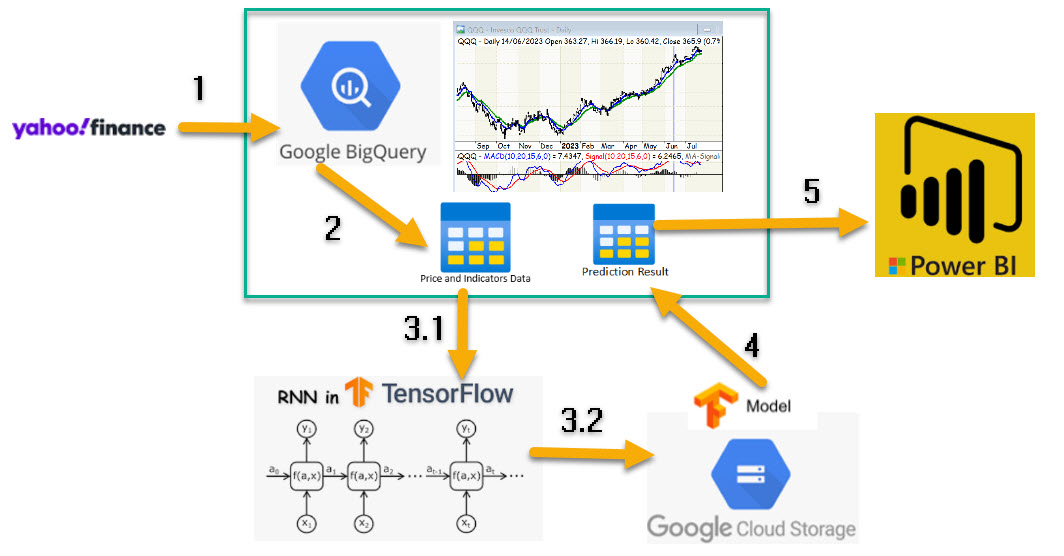
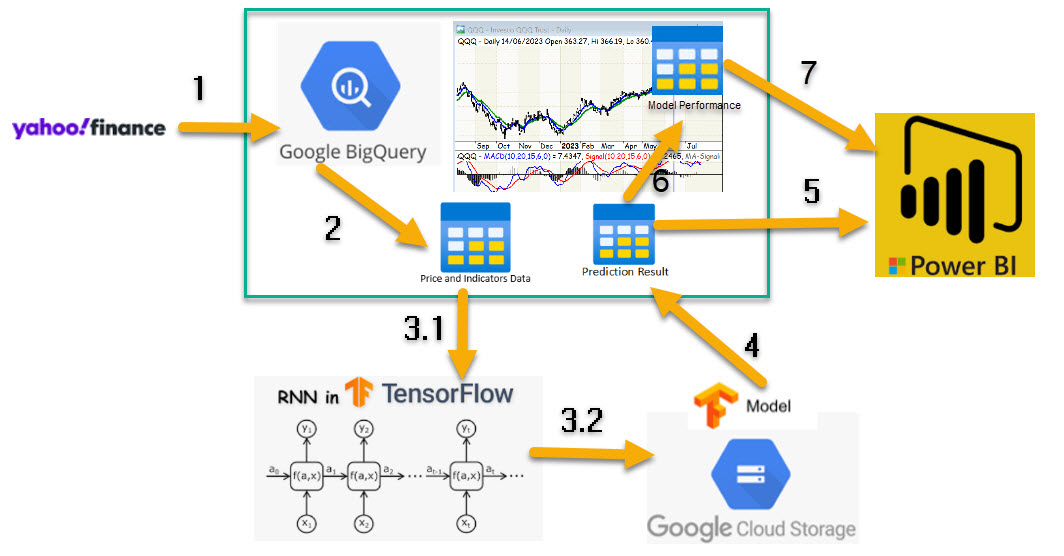
ok

Changed region(s): [[0.5583, 0.0306, 0.8374, 0.3669]]

diff --git a/forecast-asset -price-movement-LSTM-TimeSeries/README.md b/forecast-asset -price-movement-LSTM-TimeSeries/README.md
@@ -2,8 +2,8 @@
 - This project involves in building time series model using Long short-term memory (LSTM) that is  kind of RNN(Recurrent Neural Network)  on Tensorflow Framework in order to make prediction of future stock price movement pattern . The model use EMA price data points as feature input over the past 30 days to forecast EMA price as prediction output over the next 5 days.
 - We provide you with the End to End Solution from ingesting data into BigQuery to visualizing prediction result on Dashboard tool.
 
-## Steps performed include the following task and process flow figure shown in below.
-![process](https://github.com/technqvi/TimeSeriesML-FinMarket/assets/38780060/93310eae-1eff-4a19-9fd1-55e66b3e3c13)
+## Steps performed include the following task and process flow figure shown  below.
+![process](https://github.com/technqvi/TimeSeriesML-FinMarket/assets/38780060/ff6cb6e1-ea11-4677-84e0-0949f1d33cf0)
 
 1. Load stock price data from Finance.yahoo.com to Bigquery.
 2. Create technical analysis indicator such as EMA,MACD,SINGLA using [TA library](https://technical-analysis-library-in-python.readthedocs.io/en/latest/) as features and import data into the price data table.
@@ -12,13 +12,15 @@
    - Save tuned model and scaler(1.feature scaler 2.prediction scaler) into google cloud storage.
 4. Load tuned model to  make prediction and store prediction result into the prediciton result table on BigQuery.
 5. Visualize prediction result using line chart compared to the actual result through Jupyter Lab and PowerBI.
+6. Collect model performance data such as Predicted Value and  Actual Value  and bring them  to calculate Mean Absolute Error(MAE) to monitor model performance over time.
+7. Visualize error between predicted Value and  actual Value and show MAE value  over time.
 
 
 <img width="697" alt="image" src="https://github.com/technqvi/TimeSeriesML-FinMarket/assets/38780060/9694e19a-9e98-4d3a-a6fb-26e773cb8f5b">
 
 ## [Youtube : Building LSTM Time-Series Models  to Predict Future Stock Price Movement](https://www.youtube.com/playlist?list=PLIxgtZc_tZWPCX4dAFJFhDPPGxEungxc8)
 
-## [Forecast Asset Future Price Movement By LSTM-TimeSeries](https://github.com/technqvi/TimeSeriesML-FinMarket/tree/main/forecast-asset%20-price-movement-LSTM-TimeSeries)
+## [Forecast Asset Future Price Movement By LSTM-TimeSeries Source Code](https://github.com/technqvi/TimeSeriesML-FinMarket/tree/main/forecast-asset%20-price-movement-LSTM-TimeSeries)
 ### [load_daily_price_from_yahoo.ipynb](https://github.com/technqvi/TimeSeriesML-FinMarket/blob/main/forecast-asset%20-price-movement-LSTM-TimeSeries/load_daily_price_from_yahoo.ipynb)
 ##### Youtube : [1 Load Stock Price From Yahoo To BigQuery For Building LSTM Model](https://www.youtube.com/watch?v=jaPpyopNFPA&feature=youtu.be)
 * There are 2 options to load price data to GoogleBiquery.
@@ -76,7 +78,7 @@
 ### [collect_performance_forecast_result.ipynb](https://github.com/technqvi/TimeSeriesML-FinMarket/blob/main/forecast-asset%20-price-movement-LSTM-TimeSeries/collect_performance_forecast_result.ipynb)
 #### Youtub :[5 Collect&Monitor Time Series Model Performance Data](https://www.youtube.com/watch?v=Fd1GfmX_Z3k&list=PLIxgtZc_tZWPCX4dAFJFhDPPGxEungxc8&index=7)
 * Create collection date on Saturday as well as start date and end date to gather model performance data every week.
-* Get model configuration metadata ( This script is capable of collecting performance on multiple models only once).
+* Get model configuration metadata ( This script is capable of collecting performance for multiple models once).
 * Retrieve predicted value  and actual values  and return as dataframe from tables in BigQuery and merge both into one dataframe.
 * Bring the recently created dataframe as the first dataframe and the whole model performance data previously collected from the prior weeks  as the second dataframe to calculate MAE together and put the calculation result into the dataframe.
 * Convert dataframe to JSON object along with adding predicted value and actual values into this JSON object as  nested and repeated columns and end up  loading this JSON object into BigQuery.

diff --git a/README.md b/README.md
@@ -3,7 +3,7 @@ This project is about how to build time-series model using Long short-term memor
 
 ## Main Project : [forecast-asset -price-movement-LSTM-TimeSeries](https://github.com/technqvi/TimeSeriesML-FinMarket/tree/main/forecast-asset%20-price-movement-LSTM-TimeSeries) .
 ### Main Tutorial : [Building LSTM Time-Series Models to Predict Future Stock Price Movement](https://www.youtube.com/playlist?list=PLIxgtZc_tZWPCX4dAFJFhDPPGxEungxc8)
-![process](https://github.com/technqvi/TimeSeriesML-FinMarket/assets/38780060/93310eae-1eff-4a19-9fd1-55e66b3e3c13)
+![process](https://github.com/technqvi/TimeSeriesML-FinMarket/assets/38780060/ff6cb6e1-ea11-4677-84e0-0949f1d33cf0)
 
 
 <img width="839" alt="image" src="https://github.com/technqvi/TimeSeriesML-FinMarket/assets/38780060/8306119d-1399-4aa5-8d3d-0c968161f5a3">
